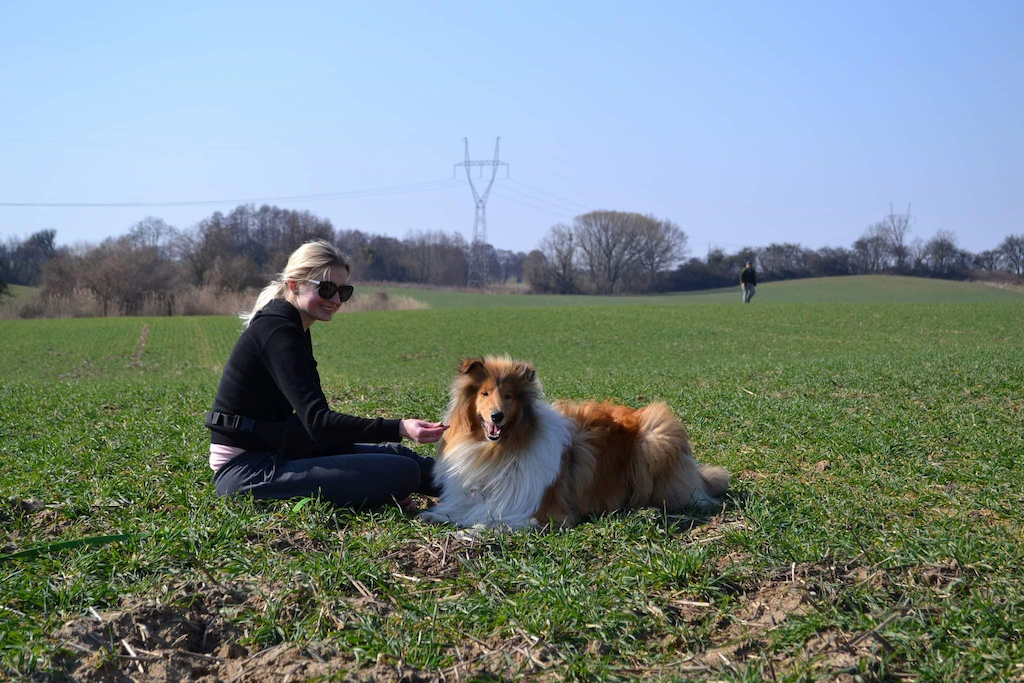
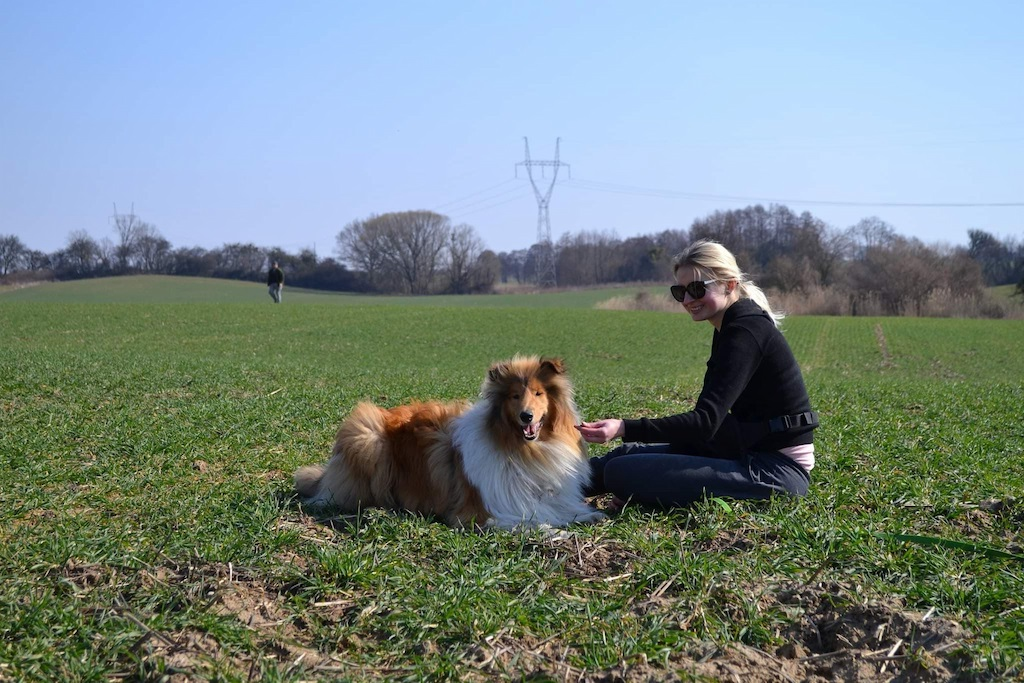
Landing update

diff --git a/src/scss/components/_main.scss b/src/scss/components/_main.scss
@@ -20,6 +20,7 @@ main {
   position: relative;
   padding-left: 3rem;
   z-index: 10;
+  padding-bottom: 3rem;
 
   &__button {
     // width: 20rem;
@@ -56,7 +57,29 @@ main {
   width: 100%;
 }
 
+@media screen and (min-width: 760px) {
+  .intro {
+    align-items: center;
+  }
+}
+
 @media screen and (min-width: 1200px) {
+  .intro {
+    align-items: start;
+  }
+
+  .header1,
+  .header2,
+  .header3 {
+    background-color: rgba(255, 255, 255, 0.35);
+    // background-color: rgba(0, 0, 0, 0.1);
+    margin: 0;
+    border-radius: 10px;
+    white-space: nowrap;
+    width: fit-content;
+    padding-right: 0.5rem;
+  }
+
   .intro .header1 {
     display: block;
     font-size: 3rem;
@@ -67,18 +90,11 @@ main {
   }
 
   .header1 {
-    margin: 0;
     font-size: 2rem;
-    width: 20ch;
   }
 
   .header2 {
     font-size: 2rem;
-    width: 25ch;
-  }
-
-  .header3 {
-    width: 40ch;
   }
 
   .intro__button {

diff --git a/src/partials-html/landing.html b/src/partials-html/landing.html
@@ -12,7 +12,18 @@
       </a>
     </section>
     <figure>
-      <img src="./assets/dog3.jpg" alt="dog" class="lander-image" />
+      <img
+        class="lander-image"
+        src="./assets/photo-1-512.jpg"
+        srcset="
+          ./assets/photo-1-512.jpg   512w,
+          ./assets/photo-1-1024.jpg 1024w,
+          ./assets/photo-1-2048.jpg 2048w
+        "
+        sizes="(min-width: 1200px) 30vw, (min-width: 720x) 45vw, 95vw"
+        alt="Kobieta z psem Lessy na łące"
+        title="Ja z psem na łące"
+      />
     </figure>
   </div>
 </main>

diff --git a/src/partials-html/header.html b/src/partials-html/header.html
@@ -5,7 +5,7 @@
       <ul class="nav__list">
         <li class="nav__item">
           <a href="./index.html">
-            <img class="header__logo" src="./assets/logo.jpg" alt="" />
+            <img class="header__logo" src="./assets/logo.png" alt="" />
           </a>
         </li>
         <li class="nav__item nav-uslugi">
